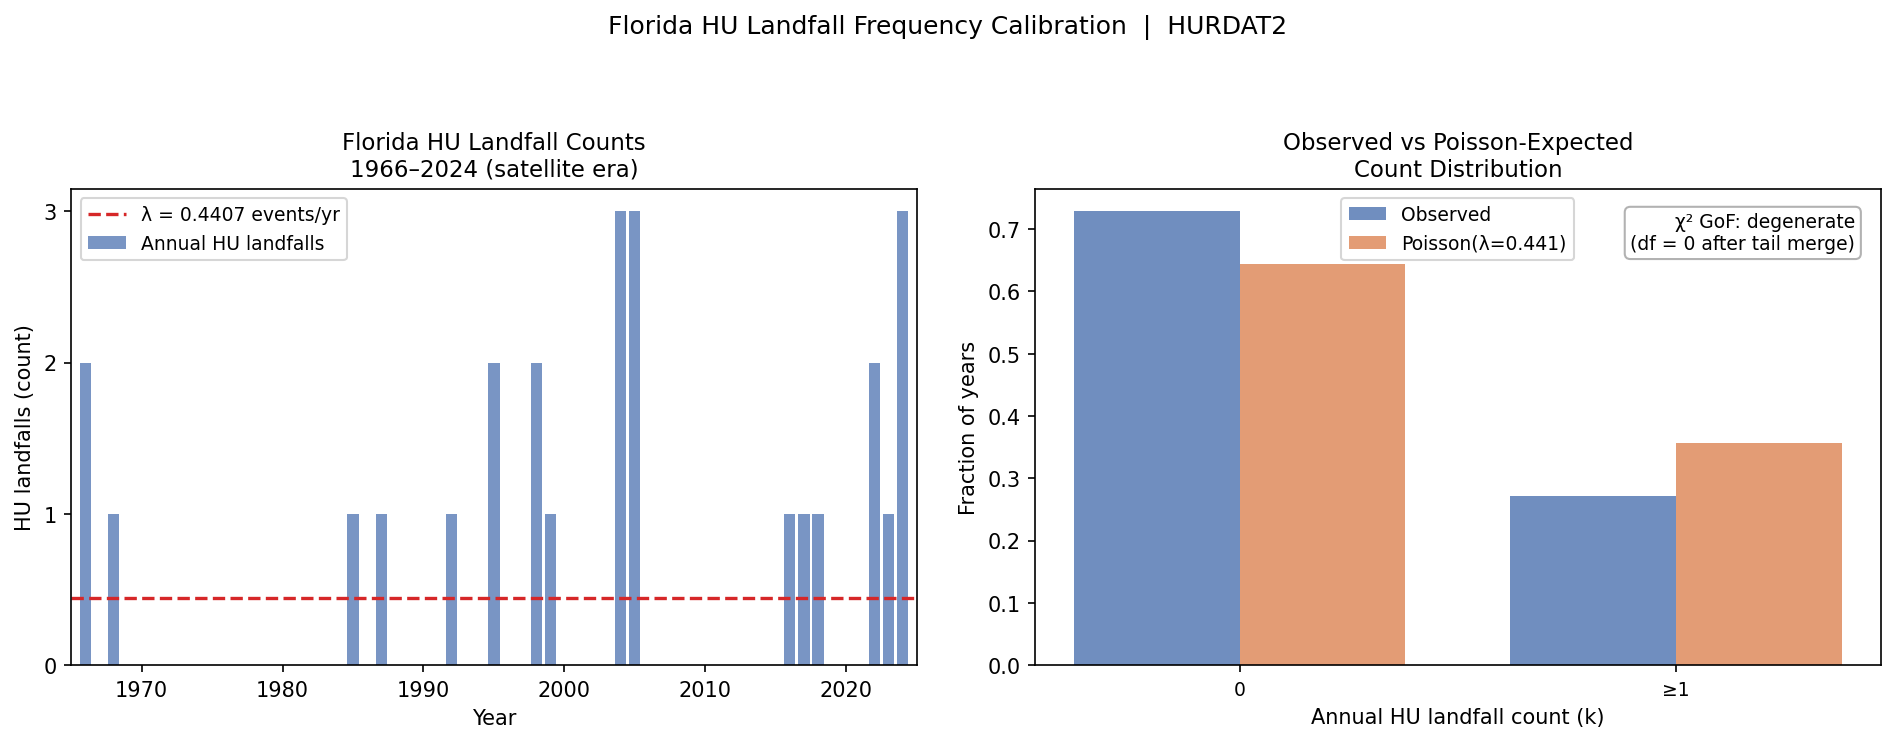
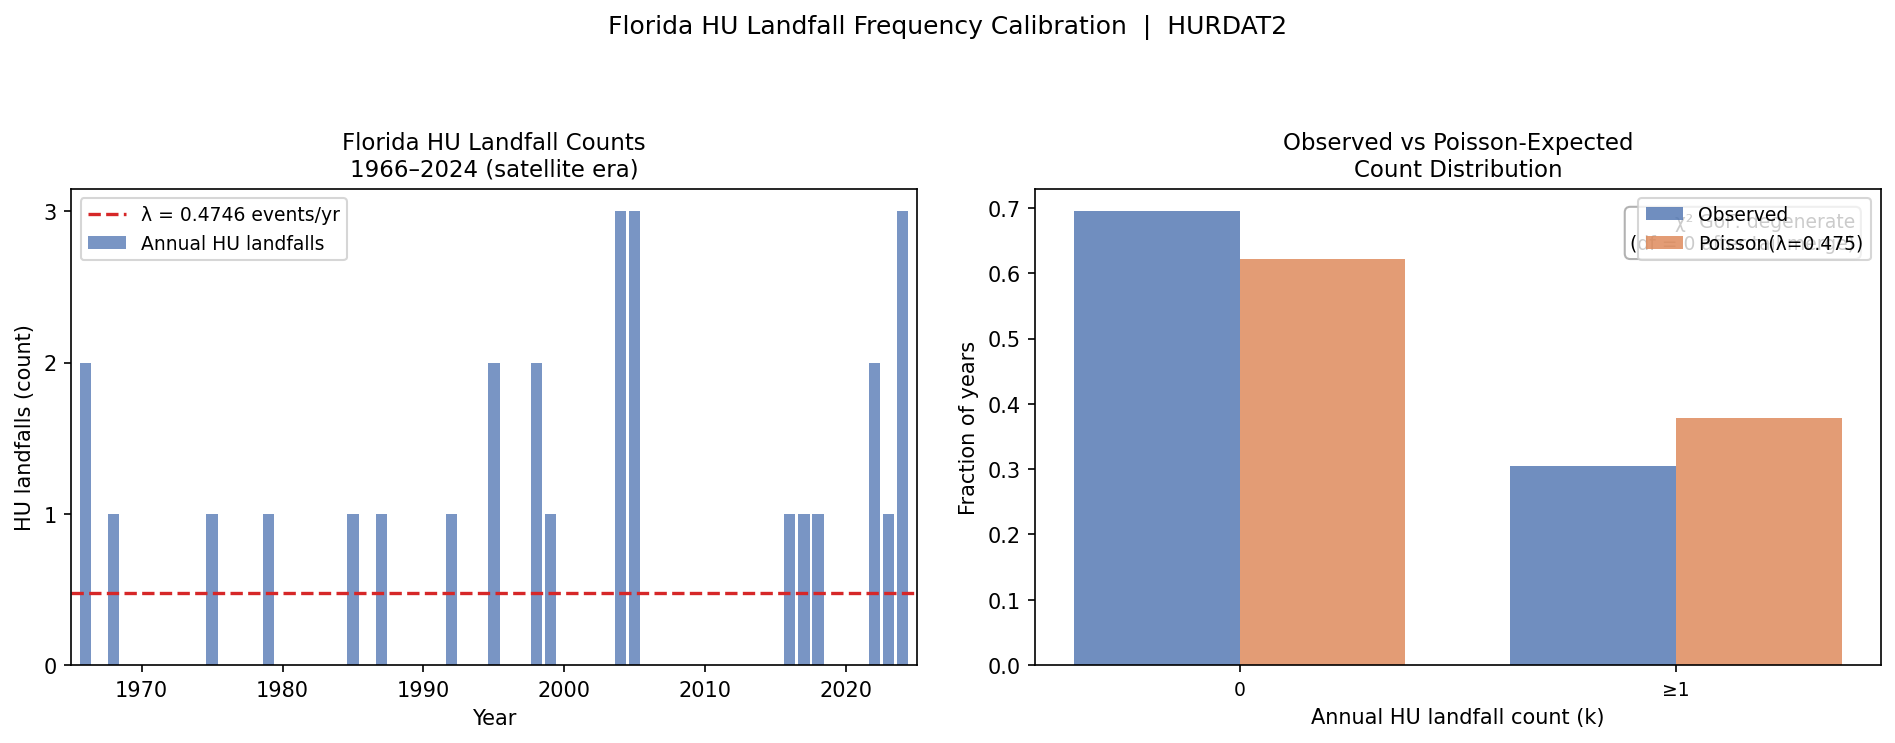
fix: AMO-only fallback fires on high collinearity; read lambda_constant dynamically
Recalibrate frequency on corrected catalogue. AIC selection now triggers
whenever |r|>0.8 (previously skipped when full-model signs were valid).
lambda_hu_fl: 0.6491 -> 0.6576 (GLM, current AMO phase). lambda_constant
now read from catalogue (0.4746), not hardcoded.

diff --git a/calibration/frequency_glm.py b/calibration/frequency_glm.py
@@ -22,9 +22,16 @@ Physical sign expectations
 b1 > 0 : warmer Tropical N. Atlantic → higher HU frequency
 b2 > 0 : positive AMO                → higher HU frequency
 
-If either sign is reversed the YAML is NOT updated and a warning is printed.
+If AMO sign is wrong in the selected model, the YAML is NOT updated.
+
+Model selection
+---------------
+When |r(TNA, AMO)| > 0.8, both the full (TNA+AMO) and reduced (AMO-only)
+models are always fitted and compared by AIC. The lower-AIC model is selected.
+The AIC comparison is printed to stdout before any config write.
 """
 
+import argparse
 import os
 import sys
 import urllib.request
@@ -266,6 +273,16 @@ def _make_plot(df: pd.DataFrame, fitted: np.ndarray, path: str) -> None:
 # ---------------------------------------------------------------------------
 
 if __name__ == "__main__":
+    ap = argparse.ArgumentParser(
+        description="Fit Poisson GLM for FL HU landfall frequency."
+    )
+    ap.add_argument(
+        "--dry-run", action="store_true",
+        help="Print results but do NOT write lambda_hu_fl to config/model_v3.yaml.",
+    )
+    args = ap.parse_args()
+    dry_run = args.dry_run
+
     # ---- Step 1: HU count series ----------------------------------------
     counts = _annual_hu_counts(_FL_CSV, SAT_START, SAT_END)
 
@@ -301,29 +318,41 @@ if __name__ == "__main__":
     df["tna_z"] = (df["tna"] - tna_mean) / tna_std
     df["amo_z"] = (df["amo"] - amo_mean) / amo_std
 
-    # ---- Step 5: Fit Poisson GLM ----------------------------------------
-    X = sm.add_constant(df[["tna_z", "amo_z"]])
-    result = sm.GLM(df["count"], X, family=sm.families.Poisson()).fit()
+    # ---- Step 5: Fit both GLMs (two-covariate and AMO-only) -------------
+    X_full = sm.add_constant(df[["tna_z", "amo_z"]])
+    result_full = sm.GLM(df["count"], X_full, family=sm.families.Poisson()).fit()
 
-    b0 = float(result.params["const"])
-    b1 = float(result.params["tna_z"])
-    b2 = float(result.params["amo_z"])
+    X_amo_only = sm.add_constant(df[["amo_z"]])
+    result_amo_only = sm.GLM(
+        df["count"], X_amo_only, family=sm.families.Poisson()
+    ).fit()
+
+    b0 = float(result_full.params["const"])
+    b1 = float(result_full.params["tna_z"])
+    b2 = float(result_full.params["amo_z"])
     df.attrs["b0"] = b0
     df.attrs["b1"] = b1
     df.attrs["b2"] = b2
-    fitted = result.fittedvalues.values
 
-    null_dev  = float(result.null_deviance)
-    resid_dev = float(result.deviance)
+    null_dev  = float(result_full.null_deviance)
+    resid_dev = float(result_full.deviance)
     dev_expl  = (null_dev - resid_dev) / null_dev
-    aic       = float(result.aic)
-    pvals     = result.pvalues
-    bses      = result.bse
-    zstats    = result.tvalues
+    aic_full  = float(result_full.aic)
+    pvals     = result_full.pvalues
+    bses      = result_full.bse
+    zstats    = result_full.tvalues
+
+    b0_amo_only       = float(result_amo_only.params["const"])
+    b2_amo_only       = float(result_amo_only.params["amo_z"])
+    aic_amo_only      = float(result_amo_only.aic)
+    dev_expl_amo_only = (
+        (float(result_amo_only.null_deviance) - float(result_amo_only.deviance))
+        / float(result_amo_only.null_deviance)
+    )
 
     r_tna_amo, _ = pearsonr(df["tna"], df["amo"])
 
-    # ---- Step 6: Report -------------------------------------------------
+    # ---- Step 6: Report full model --------------------------------------
     print("\n=== Poisson GLM — Florida HU landfall frequency ===\n")
     print(f"Covariates: TNA SST (standardized), AMO (standardized)"
           f"  |  {fit_start}–{fit_end}  n={n_fit}\n")
@@ -341,7 +370,7 @@ if __name__ == "__main__":
         print(f"  {name:<14}  {b:>8.4f}  {se:>8.4f}  {z:>7.3f}  {p:>8.4f}  {sign_flag}")
 
     print()
-    print(f"  AIC               : {aic:.2f}")
+    print(f"  AIC (TNA+AMO)     : {aic_full:.2f}")
     print(f"  Deviance explained: {dev_expl * 100:.1f}%")
     print(f"  Null deviance     : {null_dev:.4f}")
     print(f"  Residual deviance : {resid_dev:.4f}")
@@ -351,73 +380,57 @@ if __name__ == "__main__":
         print("  [NOTE: |r| > 0.7 — moderate multicollinearity]", end="")
     print()
 
-    # ---- Step 7: Sign check — gate for config write ---------------------
-    # When |r(TNA,AMO)| is high the two-covariate model is nearly collinear:
-    # TNA's individual coefficient becomes unreliable (absorbs AMO's variance
-    # and may flip sign).  Fallback: if signs fail AND |r| > 0.8, refit with
-    # AMO only — the reduced model is statistically preferred and avoids the
-    # collinearity artefact.
-
-    signs_ok = (b1 > 0) and (b2 > 0)
-
-    # Track which model we are actually using for lambda_current.
+    # ---- Step 7: Model selection — always compare AICs when |r| > 0.8 ---
+    # Even when both coefficients have correct signs, high collinearity inflates
+    # standard errors and p-values, making the extra TNA parameter unreliable.
+    # AIC comparison is the correct selection criterion here.
     active_model   = "two-covariate (TNA + AMO)"
-    active_result  = result
+    active_result  = result_full
     active_b0      = b0
-    active_tna_z   = df["tna_z"].values   # needed for plot fitted values
-    active_amo_z   = df["amo_z"].values
+    fitted         = result_full.fittedvalues.values
 
-    if not signs_ok:
-        bad = []
-        if b1 <= 0:
-            bad.append(f"tna_z  b1 = {b1:.4f} <= 0  (expected > 0)")
-        if b2 <= 0:
-            bad.append(f"amo_z  b2 = {b2:.4f} <= 0  (expected > 0)")
-        print("\nWARNING: coefficient sign(s) do not match physical expectations:")
-        for msg in bad:
-            print(f"  {msg}")
+    if abs(r_tna_amo) > 0.8:
+        print(f"\n  |r(TNA, AMO)| = {abs(r_tna_amo):.3f} > 0.8 "
+              "— AIC model comparison:")
+        print(f"    AIC  TNA+AMO  : {aic_full:.2f}")
+        print(f"    AIC  AMO-only : {aic_amo_only:.2f}")
+        print()
+        print("  AMO-only model coefficients:")
+        print(f"    intercept : {b0_amo_only:.4f}  "
+              f"(SE {result_amo_only.bse['const']:.4f}, "
+              f"p {result_amo_only.pvalues['const']:.4f})")
+        print(f"    amo_z     : {b2_amo_only:.4f}  "
+              f"(SE {result_amo_only.bse['amo_z']:.4f}, "
+              f"p {result_amo_only.pvalues['amo_z']:.4f})  "
+              f"{'OK' if b2_amo_only > 0 else '*** WRONG SIGN ***'}")
+        print(f"    AIC       : {aic_amo_only:.2f}")
+        print(f"    Dev. expl.: {dev_expl_amo_only * 100:.1f}%")
 
-        if abs(r_tna_amo) > 0.8:
-            print(f"  |r(TNA, AMO)| = {abs(r_tna_amo):.3f} > 0.8 — "
-                  "multicollinearity likely cause.")
-            print("  Attempting AMO-only reduced model ...\n")
-
-            X_amo = sm.add_constant(df[["amo_z"]])
-            result_amo = sm.GLM(df["count"], X_amo,
-                                family=sm.families.Poisson()).fit()
-            b0_amo = float(result_amo.params["const"])
-            b2_amo = float(result_amo.params["amo_z"])
-
-            null_dev_amo  = float(result_amo.null_deviance)
-            resid_dev_amo = float(result_amo.deviance)
-            dev_expl_amo  = (null_dev_amo - resid_dev_amo) / null_dev_amo
-
-            print("  AMO-only model:")
-            print(f"    intercept : {b0_amo:.4f}  "
-                  f"(SE {result_amo.bse['const']:.4f}, "
-                  f"p {result_amo.pvalues['const']:.4f})")
-            print(f"    amo_z     : {b2_amo:.4f}  "
-                  f"(SE {result_amo.bse['amo_z']:.4f}, "
-                  f"p {result_amo.pvalues['amo_z']:.4f})"
-                  f"  {'OK' if b2_amo > 0 else '*** WRONG SIGN ***'}")
-            print(f"    AIC       : {result_amo.aic:.2f}")
-            print(f"    Dev. expl.: {dev_expl_amo * 100:.1f}%")
-
-            if b2_amo > 0:
-                print("  AMO-only sign OK — using reduced model for lambda_current.")
-                active_model  = "AMO-only (TNA dropped: |r(TNA,AMO)| > 0.8)"
-                active_result = result_amo
-                active_b0     = b0_amo
-                # Update plot fitted values to AMO-only model.
-                fitted = result_amo.fittedvalues.values
-                df.attrs["b0"] = b0_amo
-                df.attrs["b1"] = 0.0      # TNA term absent
-                df.attrs["b2"] = b2_amo
-                signs_ok = True
-            else:
-                print("  AMO-only sign also wrong — config/model_v3.yaml NOT updated.")
+        if aic_amo_only <= aic_full:
+            delta = aic_full - aic_amo_only
+            print(f"\n  -> AMO-only SELECTED  "
+                  f"(dAIC = {delta:.2f} in favour of reduced model)")
+            active_model  = (
+                f"AMO-only (TNA dropped: dAIC = {delta:.2f}, "
+                f"|r| = {abs(r_tna_amo):.3f})"
+            )
+            active_result = result_amo_only
+            active_b0     = b0_amo_only
+            fitted        = result_amo_only.fittedvalues.values
+            df.attrs["b0"] = b0_amo_only
+            df.attrs["b1"] = 0.0
+            df.attrs["b2"] = b2_amo_only
         else:
-            print("  lambda_hu_fl NOT updated in config/model_v3.yaml.")
+            delta = aic_amo_only - aic_full
+            print(f"\n  -> Two-covariate SELECTED  "
+                  f"(dAIC = {delta:.2f} in favour of full model)")
+
+    # Sign check on selected model's AMO coefficient.
+    b2_active = float(active_result.params["amo_z"])
+    signs_ok  = b2_active > 0
+    if not signs_ok:
+        print(f"\n  WARNING: selected model AMO coefficient {b2_active:.4f} <= 0 "
+              "(expected > 0) — config NOT updated.")
 
     # ---- Step 8: lambda_current -----------------------------------------
     window_end   = fit_end
@@ -430,14 +443,18 @@ if __name__ == "__main__":
 
     amo_curr_z = (df.loc[window_mask, "amo"].mean() - amo_mean) / amo_std
 
-    if "tna_z" in active_result.params.index and active_model != "AMO-only (TNA dropped: |r(TNA,AMO)| > 0.8)":
+    if "tna_z" in active_result.params.index:
         tna_curr_z     = (df.loc[window_mask, "tna"].mean() - tna_mean) / tna_std
-        lambda_current = float(np.exp(b0 + b1 * tna_curr_z + b2 * amo_curr_z))
+        lambda_current = float(np.exp(
+            active_b0
+            + float(active_result.params["tna_z"]) * tna_curr_z
+            + b2_active * amo_curr_z
+        ))
     else:
-        b2_use         = float(active_result.params["amo_z"])
-        lambda_current = float(np.exp(active_b0 + b2_use * amo_curr_z))
+        lambda_current = float(np.exp(active_b0 + b2_active * amo_curr_z))
 
-    lambda_constant = 0.4407   # Step 1.3 MLE — for comparison only
+    # Recomputed from catalogue — same value frequency.py writes to config.
+    lambda_constant = float(counts.mean())
     print(f"\n  Model used                              : {active_model}")
     print(f"  lambda_constant (Step 1.3 MLE, 1966-{fit_end}): "
           f"{lambda_constant:.4f} events/yr")
@@ -452,9 +469,14 @@ if __name__ == "__main__":
             start=fit_start, end=fit_end,
             cw_start=window_start, cw_end=window_end,
         )
-        _write_lambda_hu_fl(_MODEL_CFG, lambda_current, source)
-        print(f"\n  lambda_hu_fl = {lambda_current:.4f} written to "
-              "config/model_v3.yaml")
+        if dry_run:
+            print(f"\n  DRY RUN — lambda_hu_fl = {lambda_current:.4f} "
+                  "NOT written to config/model_v3.yaml "
+                  "(re-run without --dry-run to persist).")
+        else:
+            _write_lambda_hu_fl(_MODEL_CFG, lambda_current, source)
+            print(f"\n  lambda_hu_fl = {lambda_current:.4f} written to "
+                  "config/model_v3.yaml")
     else:
         print("\n  config/model_v3.yaml not modified.")
 